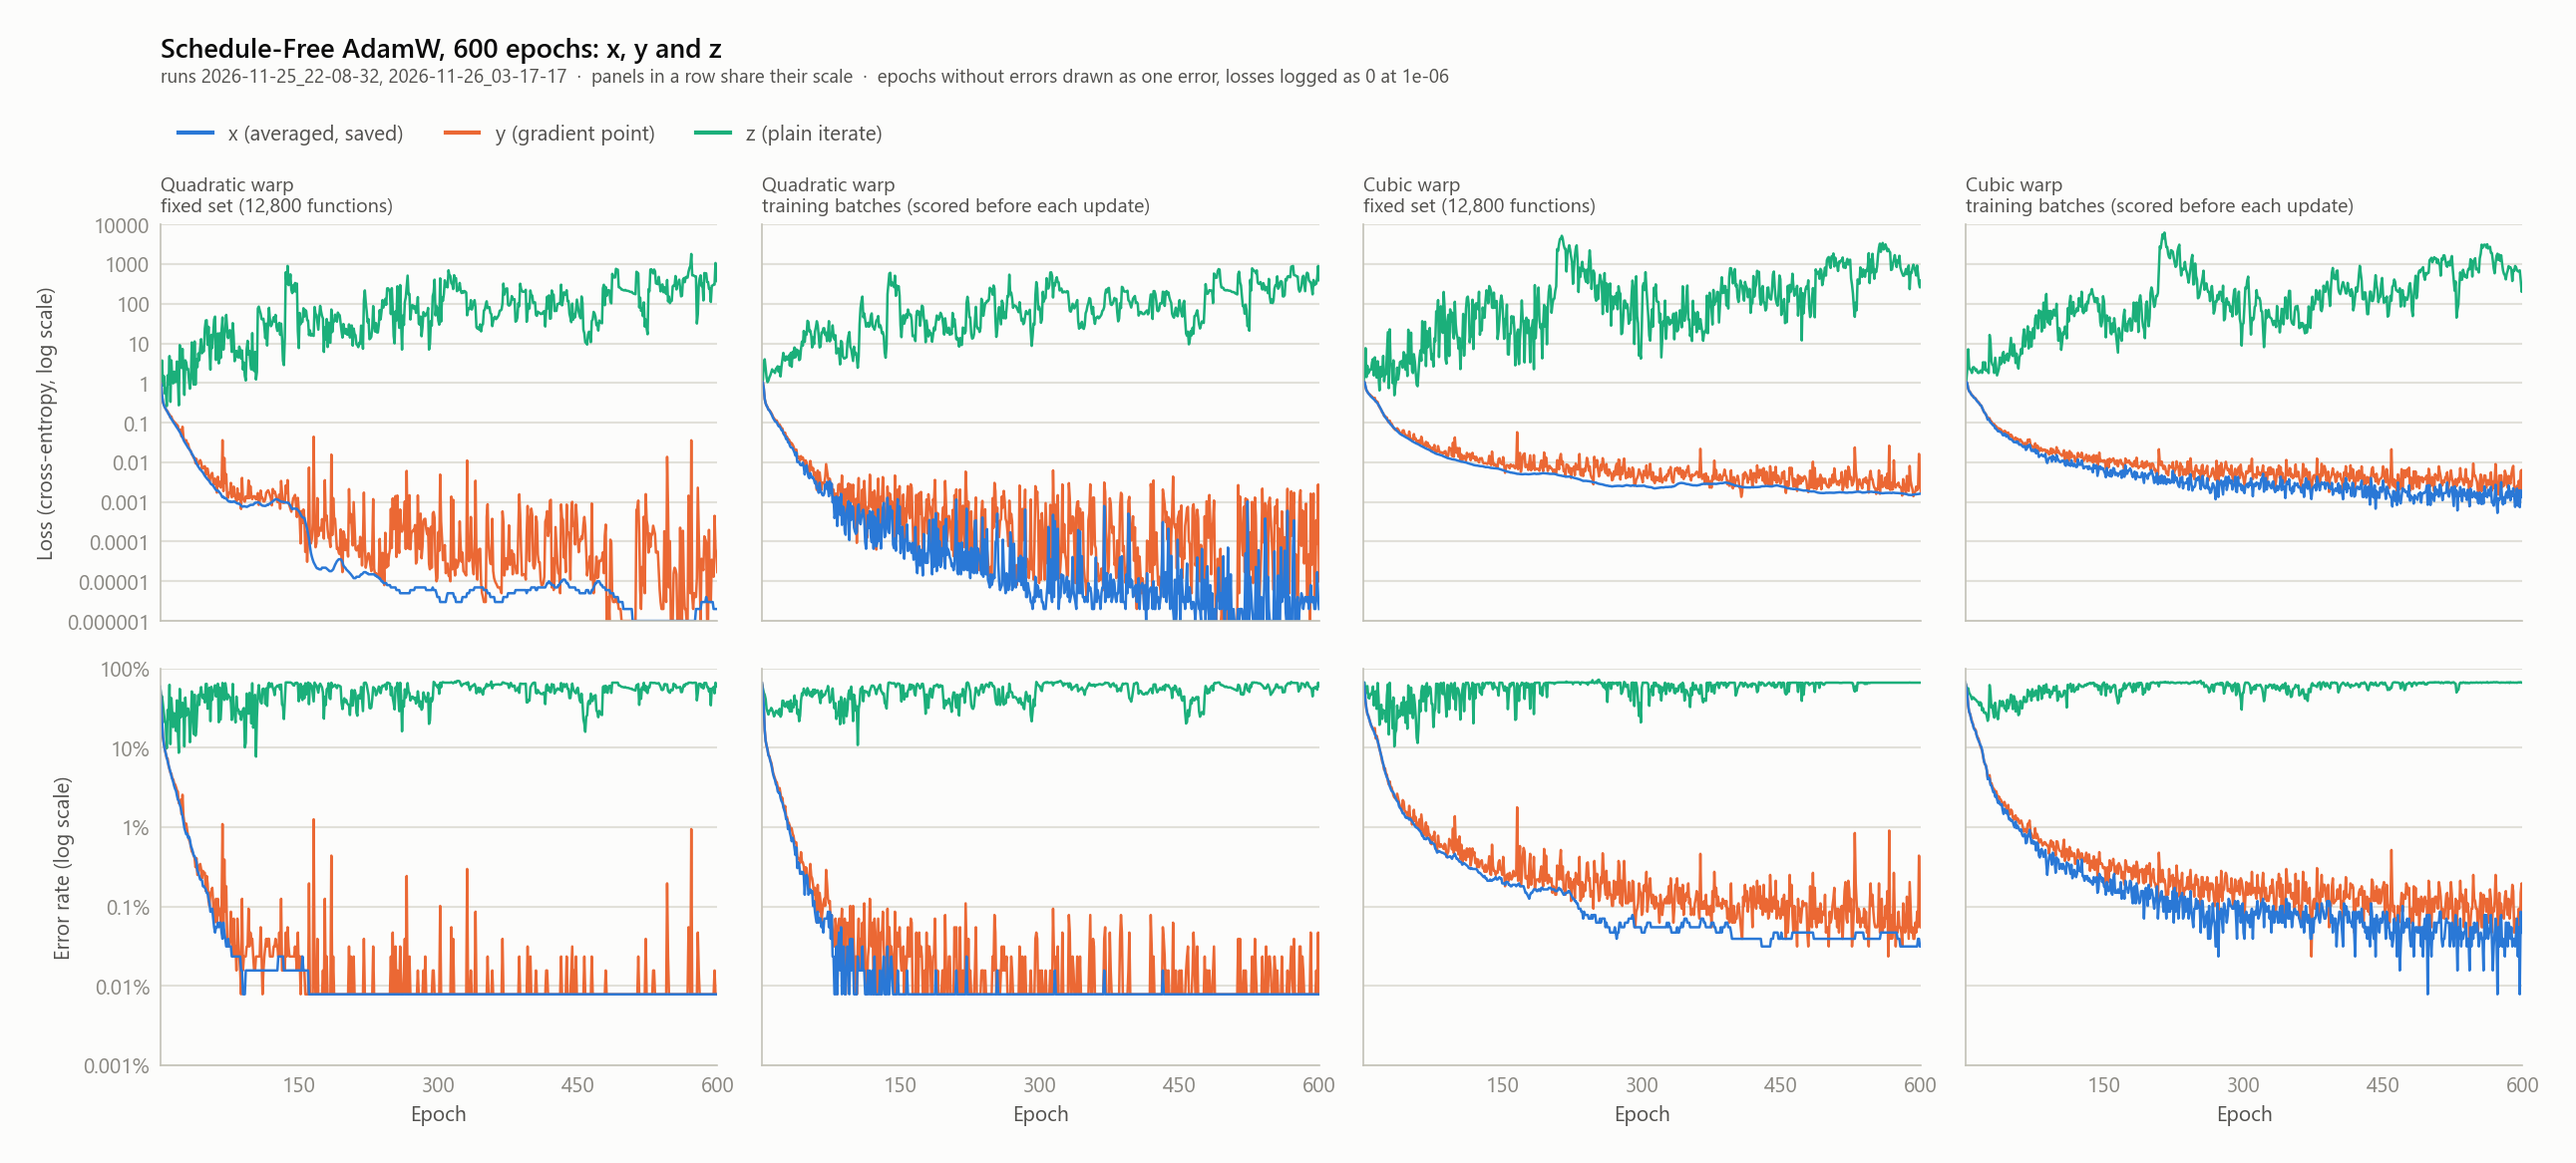
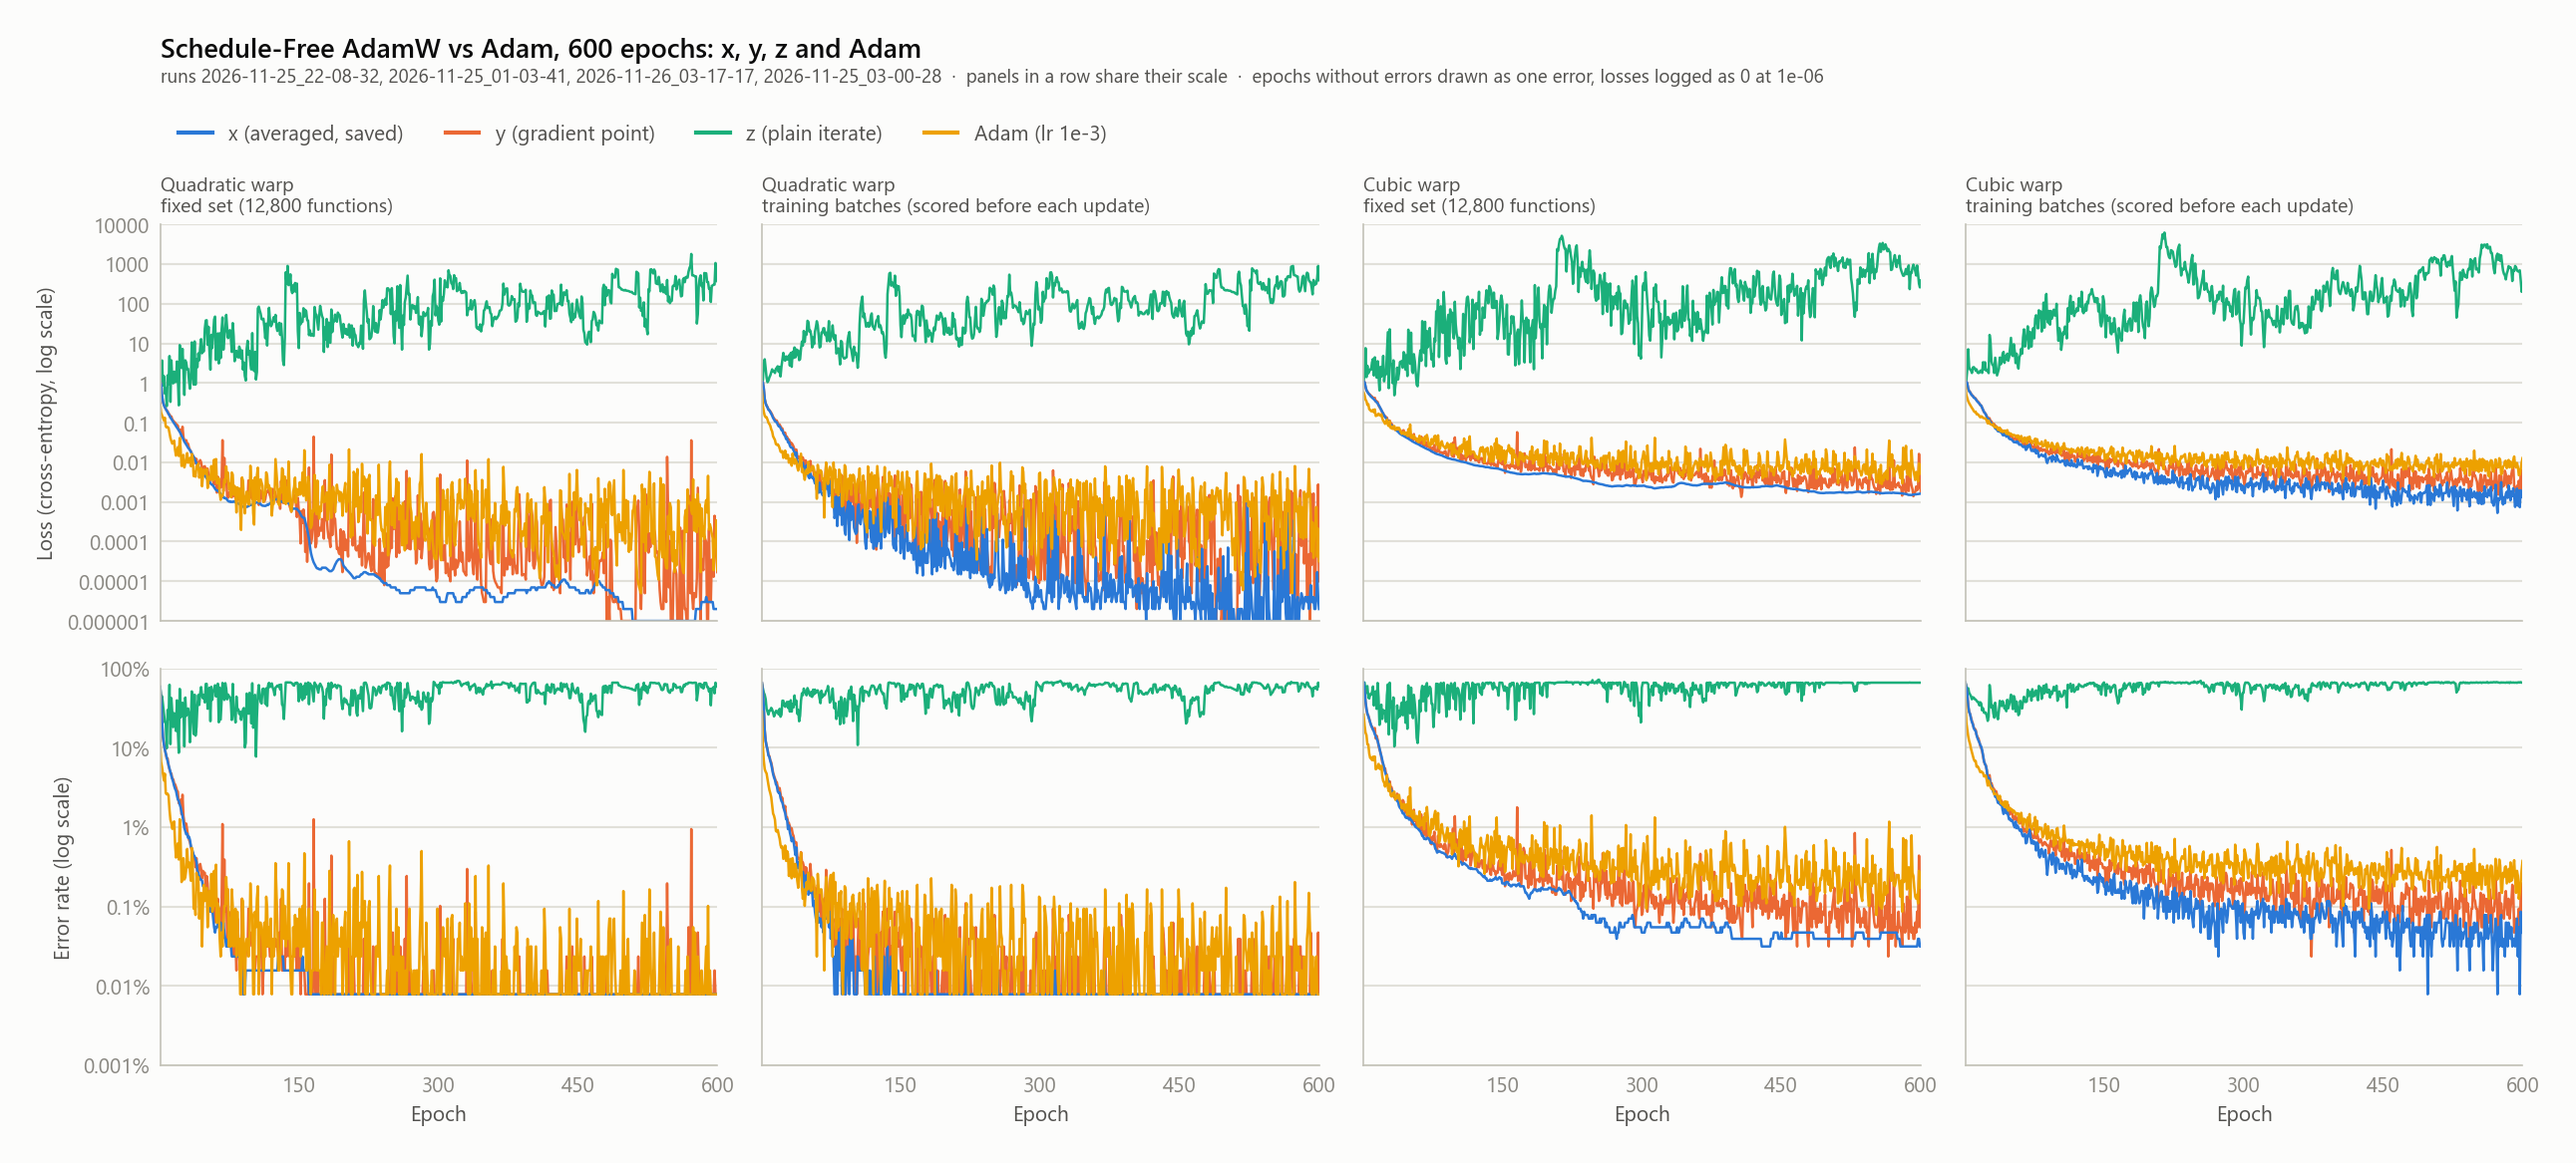
Add the 600-epoch Adam runs to the Schedule-Free x/y/z chart
plot_xyz_grid takes an optional reference run per column, drawn on top in
the 4th palette colour: its fixed-set scores in the fixed-set panels and its
training log in the training-batch panels.

diff --git a/plot.py b/plot.py
@@ -5,7 +5,8 @@ plot_training_log: loss and error rate (1 - accuracy) per epoch of one run; used
 train.py after training. plot_comparison: error rates of several runs side by side.
 plot_tuples: the functions of the adversarial tuples (adversary.py) with their samples.
 plot_fixed_eval: loss and error rate per epoch on train.py's fixed evaluation set.
-plot_xyz_grid: Schedule-Free x, y and z of several runs, one panel per run, source and measure.
+plot_xyz_grid: Schedule-Free x, y and z of several runs (optionally with a reference run such as plain
+Adam), one panel per run, source and measure.
 Not meant to be run on its own.
 """
 
@@ -437,23 +438,31 @@ def plot_fixed_eval(curves: list[tuple], png_path: Path, title: str) -> None:
         fig.savefig(png_path, facecolor=SURFACE, bbox_inches="tight", pad_inches=0.25)
 
 
-def plot_xyz_grid(runs: list[tuple[Path, str]], png_path: Path, title: str) -> None:
+def plot_xyz_grid(runs: list[tuple], png_path: Path, title: str, reference_label: str = "Adam (lr 1e-3)") -> None:
     """Schedule-Free x, y and z of several runs: one column per run and source (fixed set, training
     batches), loss in the top row, error rate in the bottom row, three curves per panel.
 
-    runs: (run dir, name); each run needs FIXED_EVAL_FUNCTIONS and BATCH_SCORES columns. Panels in a row
-    share their log-scale y-range. x is drawn last so it stays visible where curves coincide; an epoch
-    without errors is shown as one error (1/n), a loss logged as 0 at LOSS_FLOOR.
+    runs: (run dir, name[, reference run dir]); each run needs FIXED_EVAL_FUNCTIONS and BATCH_SCORES
+    columns. An optional reference run (e.g. plain Adam, with FIXED_EVAL_FUNCTIONS) is drawn on top in
+    the 4th palette colour: its fixed_loss / fixed_accuracy in the fixed-set panels and its training log
+    (loss / accuracy, also scored on each batch before its update) in the training-batch panels.
+    Panels in a row share their log-scale y-range. x is drawn after y and z so it stays visible where
+    they coincide; an epoch without errors is shown as one error (1/n), a loss logged as 0 at LOSS_FLOOR.
     """
     versions = [("z", "z (plain iterate)", RUN_COLORS[2]), ("y", "y (gradient point)", RUN_COLORS[1]),
                 ("x", "x (averaged, saved)", RUN_COLORS[0])]  # drawing order: x on top
     panels = []  # (run name, source label, {version: (epochs, loss, error)})
-    for run_dir, name in runs:
-        run_dir = Path(run_dir)
+    has_reference = any(len(run) > 2 for run in runs)
+    for run in runs:
+        run_dir, name = Path(run[0]), run[1]
         config = json.loads((run_dir / "config.json").read_text())
         with open(run_dir / "log.csv", newline="") as f:
             rows = list(csv.DictReader(f))
         epochs = [int(r["epoch"]) for r in rows]
+        ref_rows = []
+        if len(run) > 2:
+            with open(Path(run[2]) / "log.csv", newline="") as f:
+                ref_rows = list(csv.DictReader(f))
         for source, label, n in (("fixed", f"fixed set ({config['fixed_eval_functions']:,} functions)",
                                   config["fixed_eval_functions"]),
                                  ("train", "training batches (scored before each update)",
@@ -463,6 +472,11 @@ def plot_xyz_grid(runs: list[tuple[Path, str]], png_path: Path, title: str) -> N
                 loss = [max(float(r[f"{source}_loss_{v}"]), LOSS_FLOOR) for r in rows]
                 error = [max(1.0 - float(r[f"{source}_accuracy_{v}"]), 1.0 / n) for r in rows]
                 curves[v] = (epochs, loss, error)
+            if ref_rows:  # fixed set: fixed_loss / fixed_accuracy; training batches: the training log
+                lk, ak = ("fixed_loss", "fixed_accuracy") if source == "fixed" else ("loss", "accuracy")
+                curves["ref"] = ([int(r["epoch"]) for r in ref_rows],
+                                 [max(float(r[lk]), LOSS_FLOOR) for r in ref_rows],
+                                 [max(1.0 - float(r[ak]), 1.0 / n) for r in ref_rows])
             panels.append((name, label, curves))
 
     with rc_context(RC):
@@ -475,6 +489,9 @@ def plot_xyz_grid(runs: list[tuple[Path, str]], png_path: Path, title: str) -> N
                 ax = axes[row, col]
                 for v, _, color in versions:
                     ax.plot(curves[v][0], curves[v][key], color=color, linewidth=1.2, solid_joinstyle="round")
+                if "ref" in curves:  # reference run on top
+                    ax.plot(curves["ref"][0], curves["ref"][key], color=RUN_COLORS[3], linewidth=1.2,
+                            solid_joinstyle="round")
                 ax.set_yscale("log")
                 ax.set_ylim(10.0**lo, 10.0**hi)
                 ax.yaxis.set_major_locator(LogLocator(base=10, numticks=hi - lo + 2))
@@ -499,12 +516,14 @@ def plot_xyz_grid(runs: list[tuple[Path, str]], png_path: Path, title: str) -> N
                     ax.spines[side].set_color(AXIS)
                 ax.tick_params(which="both", colors=AXIS, labelcolor=TEXT_MUTED, length=0, pad=5)
         handles = [Line2D([], [], color=color, linewidth=2, label=label) for _, label, color in reversed(versions)]
-        legend = fig.legend(handles=handles, loc="upper left", bbox_to_anchor=(0.05, 0.925), ncol=3,
+        if has_reference:
+            handles.append(Line2D([], [], color=RUN_COLORS[3], linewidth=2, label=reference_label))
+        legend = fig.legend(handles=handles, loc="upper left", bbox_to_anchor=(0.05, 0.925), ncol=len(handles),
                             frameon=False, handlelength=1.6, columnspacing=2.0)
         for text in legend.get_texts():
             text.set_color(TEXT_SECONDARY)
         fig.suptitle(title, x=0.05, y=0.985, ha="left", fontsize=13, fontweight="semibold", color=TEXT_PRIMARY)
-        fig.text(0.05, 0.945, "runs " + ", ".join(Path(r[0]).name for r in runs) + "  ·  panels in a row share "
+        fig.text(0.05, 0.945, "runs " + ", ".join(Path(p).name for r in runs for p in [r[0], *r[2:]]) + "  ·  panels in a row share "
                  "their scale  ·  epochs without errors drawn as one error, losses logged as 0 at "
                  f"{LOSS_FLOOR:g}", ha="left", fontsize=9, color=TEXT_SECONDARY)
         fig.subplots_adjust(left=0.05, right=0.99, top=0.82, bottom=0.08, wspace=0.08, hspace=0.12)

diff --git a/README.md b/README.md
@@ -749,9 +749,12 @@ evaluated on the two test sets of 51,200 functions used above.
 
 Chart: [`comparisons/schedule_free_600_xyz.png`](comparisons/schedule_free_600_xyz.png), one
 column per run and source (fixed set, training batches), loss on top and error
-rate below, x drawn on top of y and z. On the fixed set, x falls smoothly and
-in steps of single errors, while y keeps jumping from epoch to epoch: the
-averaging in x is directly visible. Runs:
+rate below, x drawn on top of y and z, and the 600-epoch Adam run with the
+same warp in yellow on top (its fixed set and its training log, which also
+scores each batch before its update). On the fixed set, x falls smoothly and
+in steps of single errors, while y and Adam keep jumping from epoch to epoch:
+the averaging in x is directly visible. Adam behaves much like y; on the cubic
+task both stay clearly above x. Runs:
 [`runs/2026-11-25_22-08-32/`](runs/2026-11-25_22-08-32/) (quadratic),
 [`runs/2026-11-26_03-17-17/`](runs/2026-11-26_03-17-17/) (cubic).
 
